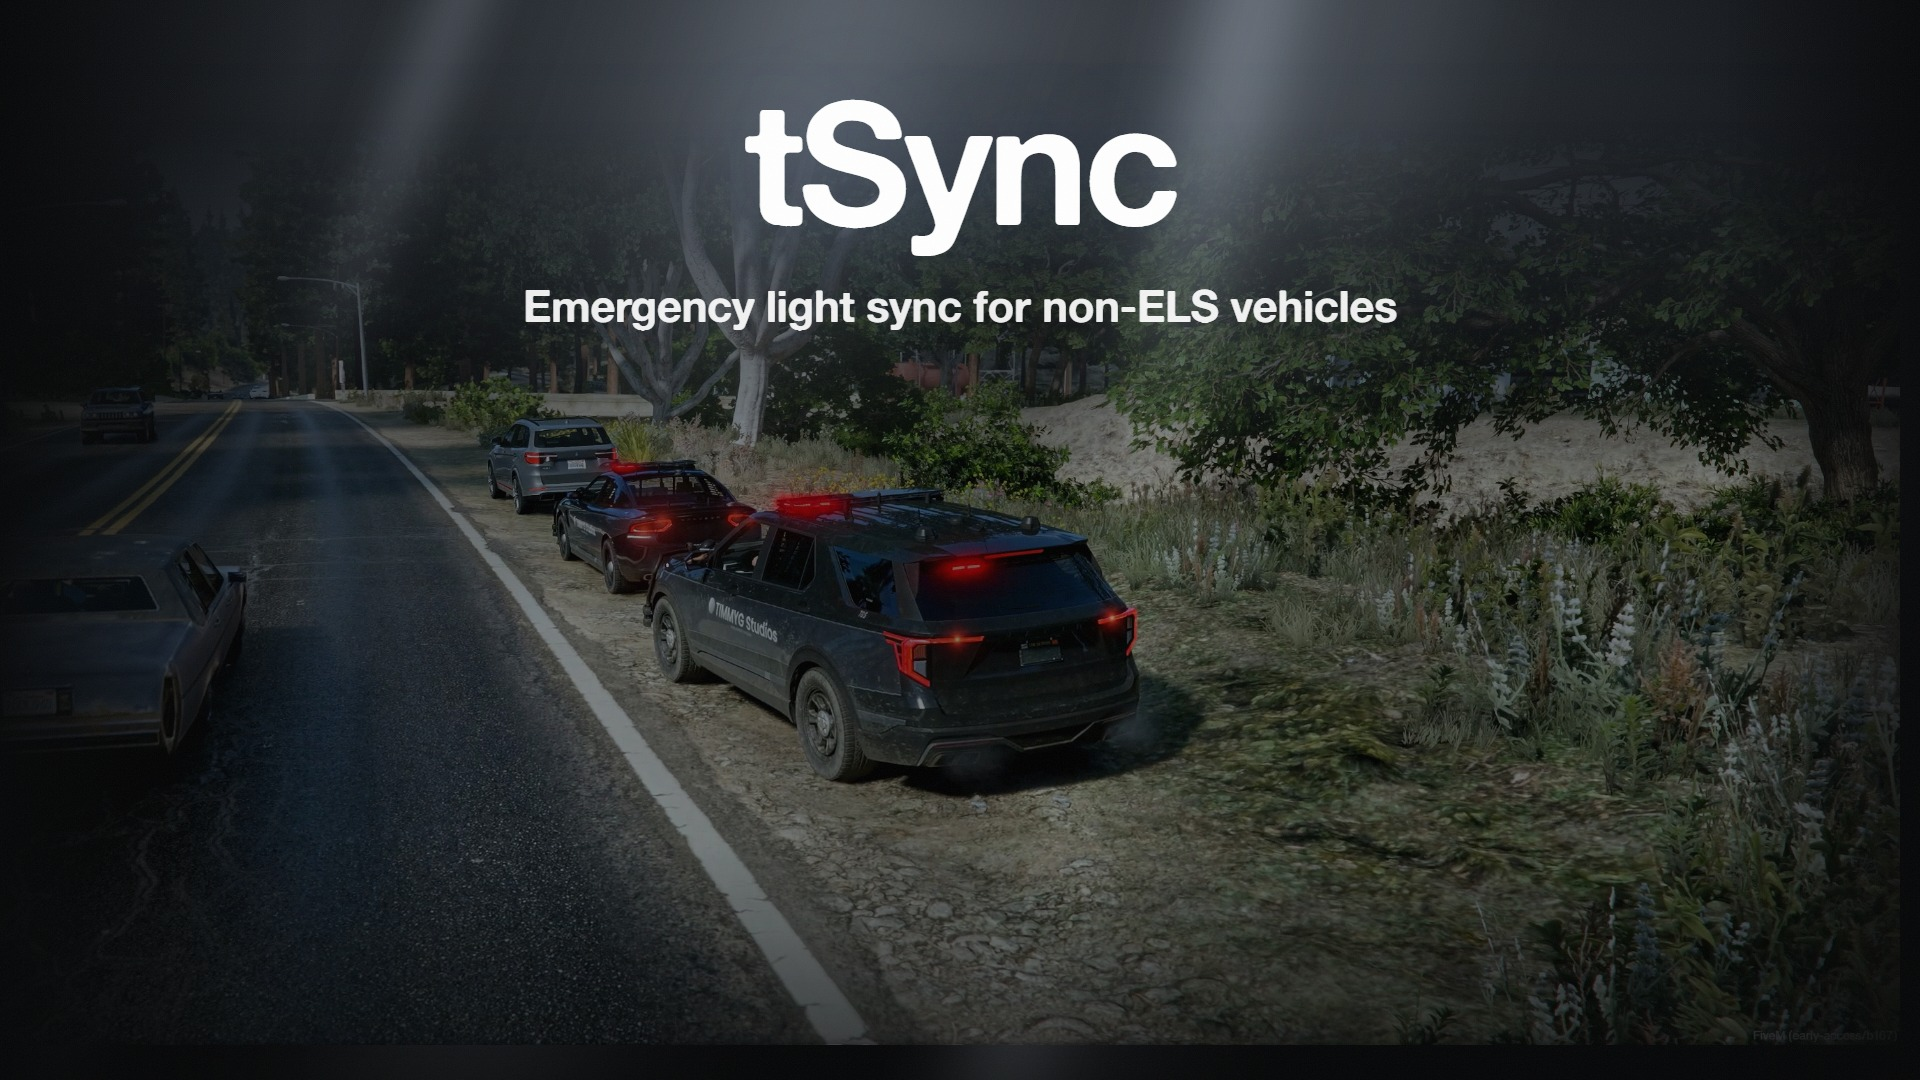
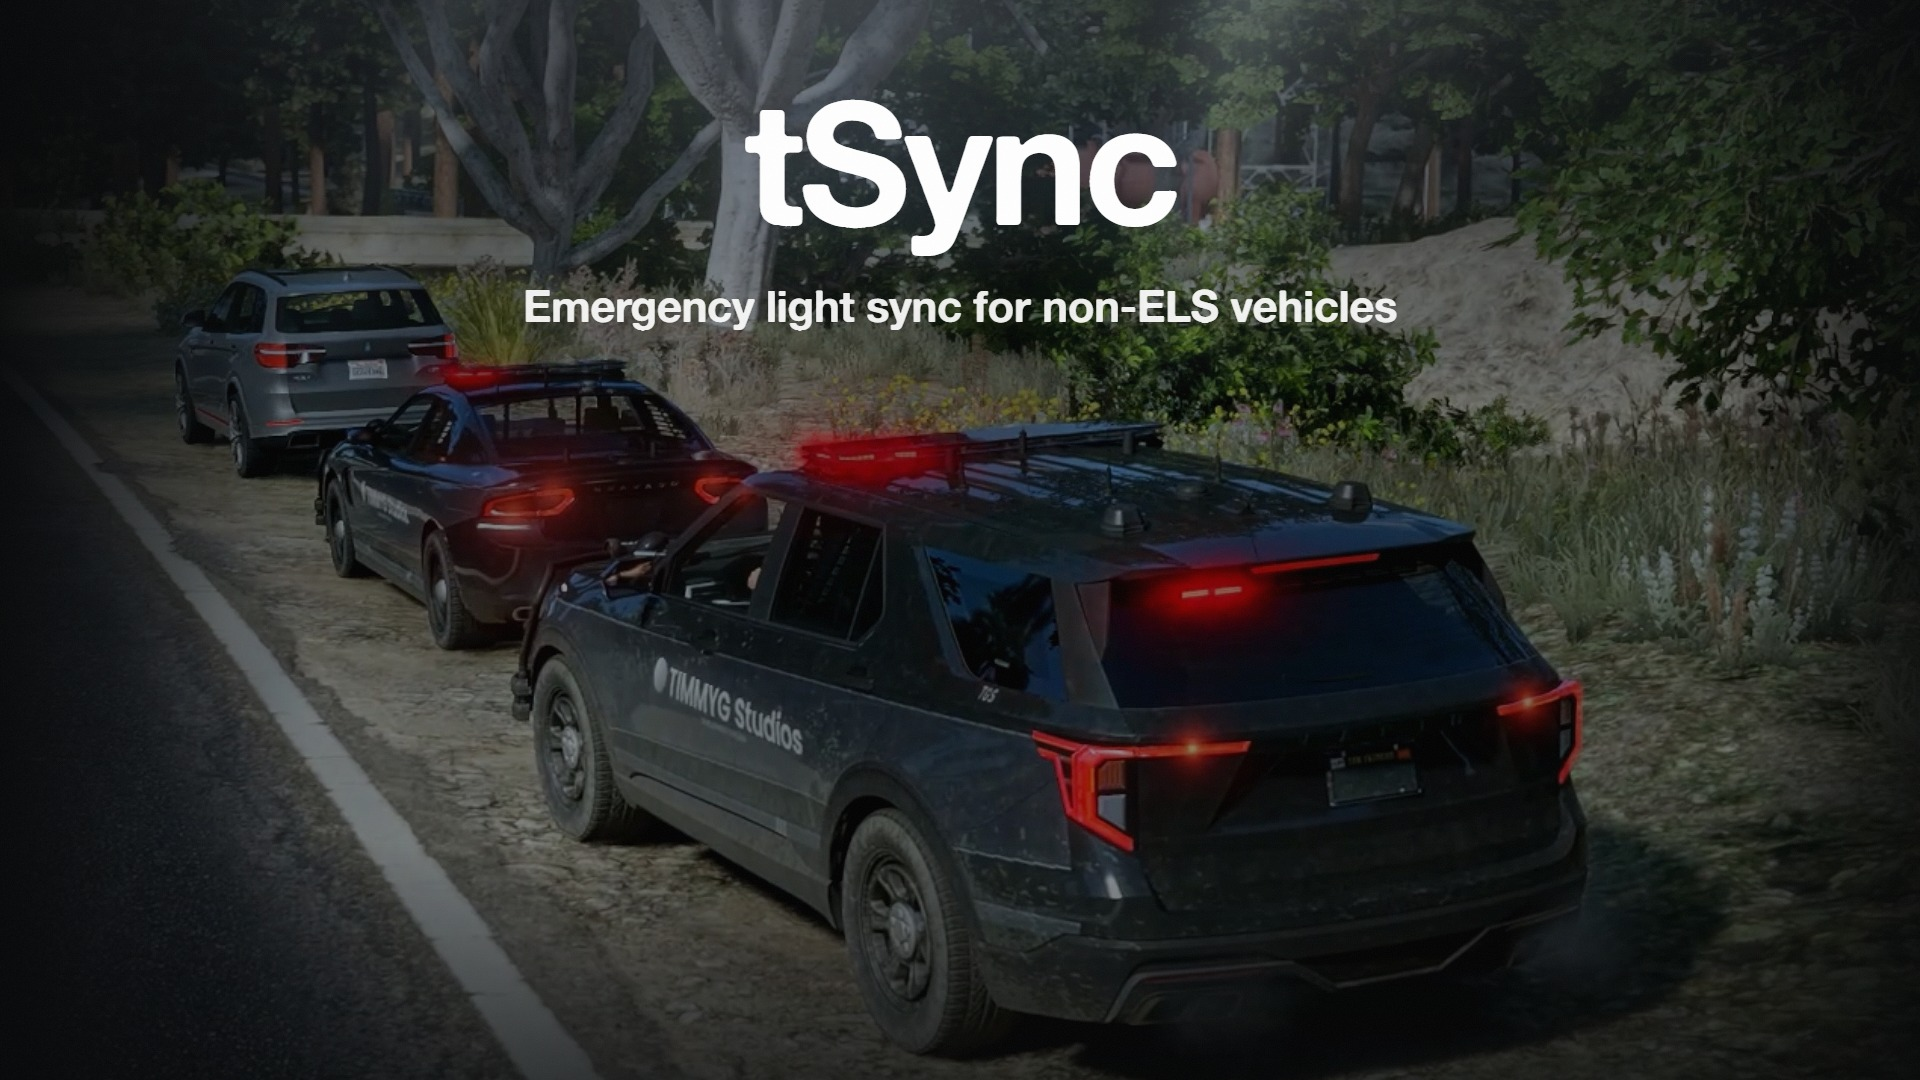
build(prod): stamp the build id, and put changelog entries through the docs gate
Without a stamp two zips at the same version are the same object to a customer
and to support. Stamped last, so the id covers every staged byte.

Changelog entries sync to the site with the docs and break the same ways, so
they now go through every scan — against their own frontmatter schema, since
title/order/group are the sidebar's and an entry has none of them.

diff --git a/scripts/thumb.ts b/scripts/thumb.ts
@@ -54,10 +54,14 @@ const LAYERS: { file: string; thumb: string; banner: string }[] = [
     // stands shorter at the same `width` — re-render and look rather than trusting
     // the numbers if the art is replaced again.
     file: "tsync.webp",
-    // 2400 wide rather than tChirp's 3200: the source is already nearly
-    // frame-width, and scaling that far pushed the cars past the right edge.
-    // `left` brings them back across, `top` drops them clear of the headline.
-    thumb: `width: 2400px; left: -500px; top: 40px; border-radius: 0;
+    // ⚠ 5200 WIDE, AND THE BIG NUMBER IS THE POINT. The units are small in this
+    // source — about 27% of its width against the 62% the old 1930x1042 shot
+    // gave — so the 2400 that framed that one leaves them distant AND, at 2.39:1,
+    // stands 1005px tall in a 1080 frame: a 35px strip of bare card along the
+    // bottom. Covering the frame and matching the old apparent size are the same
+    // fix. `left`/`top` then recentre the units, which sit centre-right and
+    // slightly low rather than dead centre.
+    thumb: `width: 5200px; left: -1965px; top: -550px; border-radius: 0;
             filter: brightness(.52) saturate(.95) contrast(1.06);
             -webkit-mask-image: linear-gradient(to bottom, transparent 8%, rgba(0,0,0,.35) 26%, #000 44%);
             mask-image: linear-gradient(to bottom, transparent 8%, rgba(0,0,0,.35) 26%, #000 44%);`,

diff --git a/scripts/prod.ts b/scripts/prod.ts
@@ -2,6 +2,9 @@
 import { existsSync, readFileSync } from "node:fs";
 import { join, resolve } from "node:path";
 import AdmZip from "adm-zip";
+// `stampBuildId` is not re-exported by build/index.ts, so it is taken from the
+// module itself rather than reimplemented here.
+import { BUILD_STAMP_KEY, stampBuildId } from "../../tLib/shared/ts/build/core.ts";
 import {
   assertManifestStaged,
   checkStagedTree,
@@ -99,6 +102,13 @@ if (findings.length > 0) {
   process.exit(1);
 }
 console.log(formatFindings("staged tree", findings, `${summary}, no forbidden runtime state`));
+
+// Last before the zip, so the id covers every staged byte. Without it two zips at
+// the same `version` are the same object to a customer and to support -- the state
+// that let one tRadio 7.0.0 ship with sv_cad.lua and one without, undetectably.
+// `ctx.meta` in client/cl_sync.lua already reports it; see Diag.meta.
+step("Stamping the build id");
+console.log(`  ${BUILD_STAMP_KEY} '${stampBuildId(DIST)}'`);
 
 step("Packaging");
 // One merged `server/LICENSE.txt` rather than legal files at the resource root,
